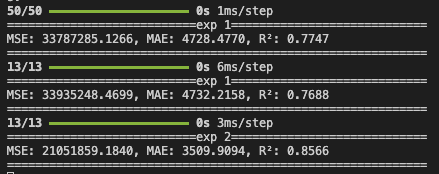
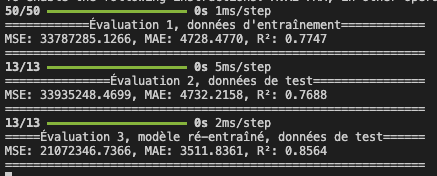
Better readme

diff --git a/main.py b/main.py
@@ -36,7 +36,7 @@ y_pred = model_predict(model_2024_08, X_train)
 # mesurer les performances MSE, MAE et R²
 perf = evaluate_performance(y_train, y_pred)  
 
-print_data(perf)
+print_data(perf, exp_name="Évaluation 1, données d'entraînement")
 
 #%% predire sur les valeurs de tests
 y_pred = model_predict(model_2024_08, X_test)
@@ -44,13 +44,13 @@ y_pred = model_predict(model_2024_08, X_test)
 # mesurer les performances MSE, MAE et R²
 perf = evaluate_performance(y_test, y_pred)   
 
-print_data(perf)
+print_data(perf, exp_name="Évaluation 2, données de test")
 
 #%% WARNING ZONE on test d'entrainer le modèle plus longtemps mais sur les mêmes données
 model2, hist2 = train_model(model_2024_08, X_train, y_train, X_val=X_test, y_val=y_test)
 y_pred = model_predict(model_2024_08, X_test)
 perf = evaluate_performance(y_test, y_pred)  
-print_data(perf, exp_name="exp 2")
+print_data(perf, exp_name="Évaluation 3, modèle ré-entraîné, données de test")
 draw_loss(hist2)
 
 

diff --git a/README.md b/README.md
@@ -44,7 +44,9 @@ Ce graphique représente l'évolution de la valeur de _loss_, c'est-à-dire une 
 
 ![loss](./media/loss.png)
 
-Nous pouvons voir que la loss diminue drastiquement au cours de l'entraînement, passant de $3.1 * 10^7$ (0 epochs) à moins de $2.1 * 10^7$ (49 epochs)
+Nous pouvons voir que la loss diminue drastiquement au cours de l'entraînement, passant de $3.1 * 10^7$ (0 epochs) à $2.1 * 10^7$ (49 epochs).
+
+En revanche, elle semble atteindre une limite vers $2.1 * 10^7$, ce qui signifie qu'entraîner encore plus longuement ce modèle n'aura qu'un effet de plus en plus négligeable sur sa qualité.
 
 Nous pouvons également remarquer que la valeur de loss lors de la validation (prédiction sur les données de test) est généralement plus élevée que celle de l'entraînement (prédiction sur les données d'entraînement)
 
